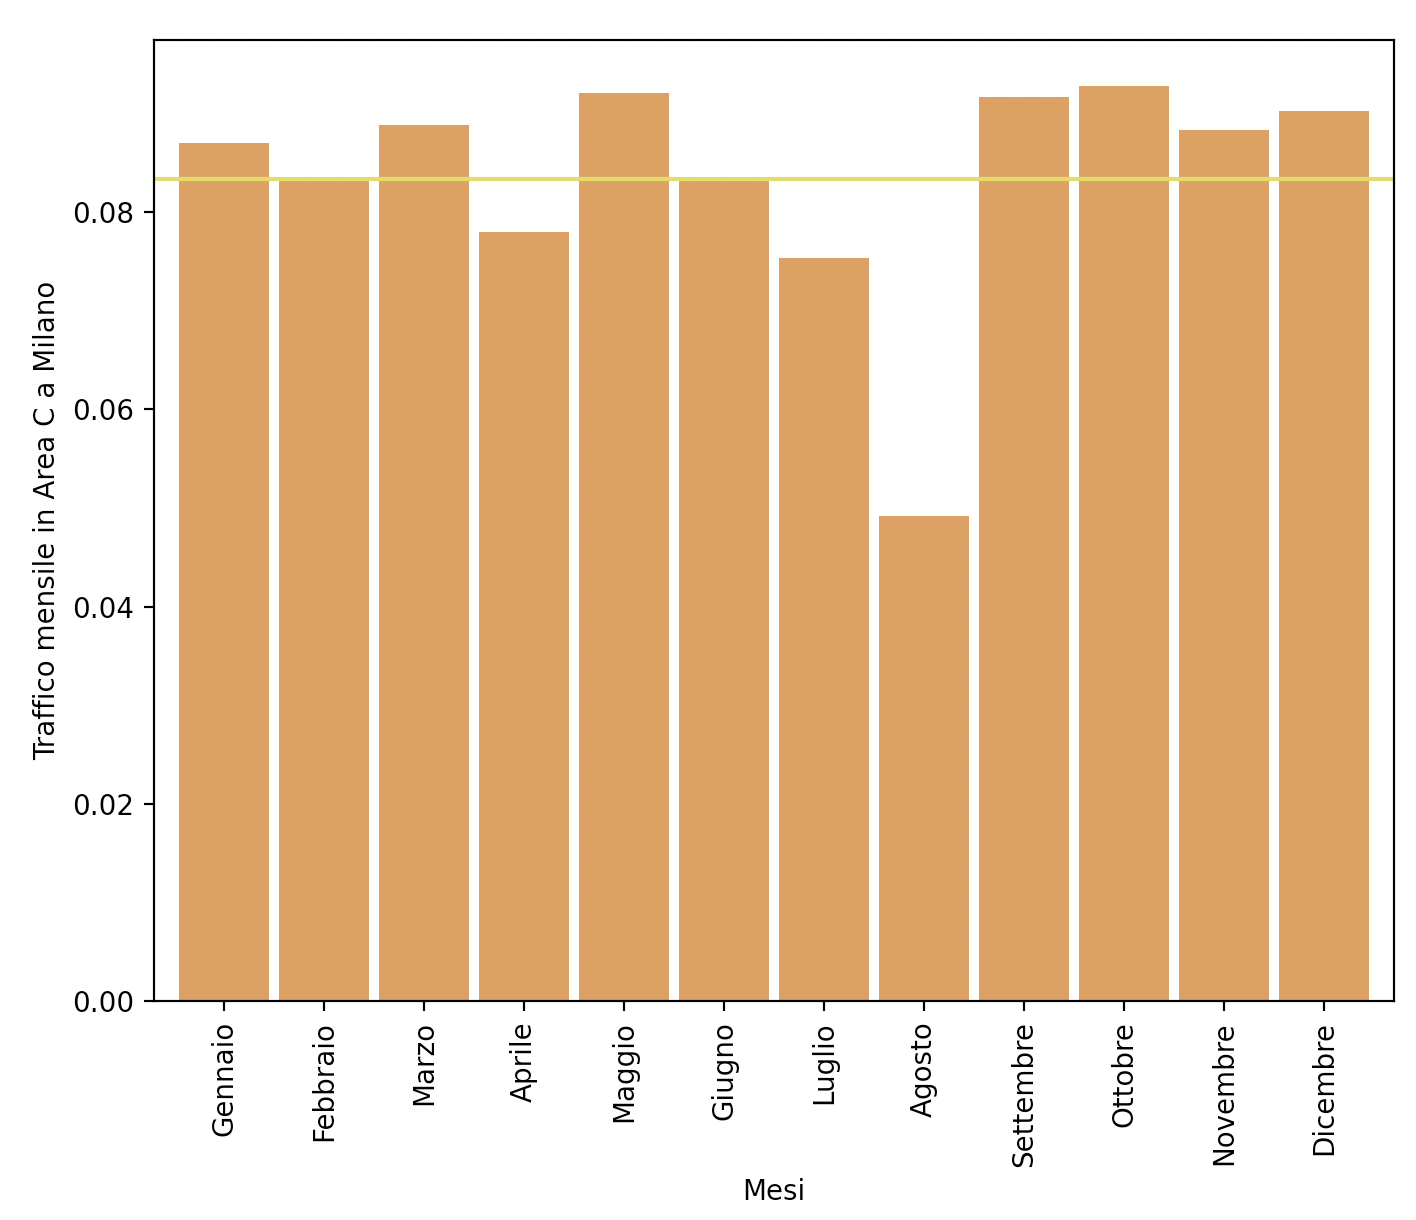
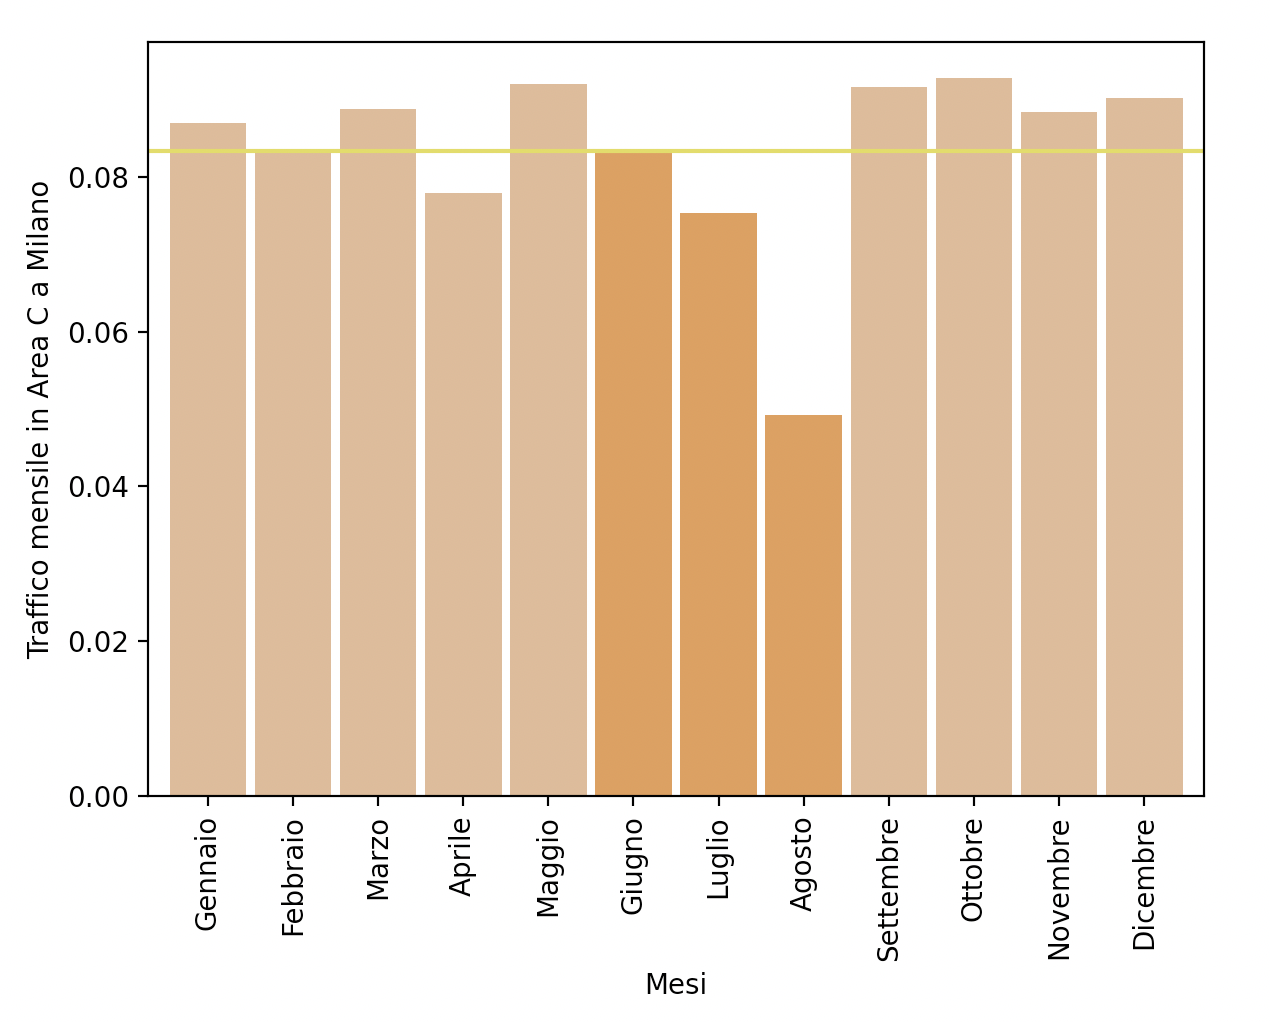
modifica grafo e small fix

diff --git a/src/incidenti/incidenti_senza_coords/mese_incidenti/trimestri.py b/src/incidenti/incidenti_senza_coords/mese_incidenti/trimestri.py
@@ -16,11 +16,12 @@ incidenti_2017 = pd.read_csv("dataset/incidenti/incidenti_2017.txt", sep="\t", e
 incidenti_2018 = pd.read_csv("dataset/incidenti/incidenti_2018.txt", sep="\t", encoding='latin1')
 
 def get_trimestre(data : pd.Series) -> pd.Series: 
-    res = {1 : 0, 2 : 0, 3 : 0, 4 : 0}
-    index = 0
-    for _, row in data.iteritems(): 
-        res[(index % 4) + 1] += row
-        index += 1
+    res = {
+        1 : data.transpose()[0:3].sum(), 
+        2 : data.transpose()[3:6].sum(), 
+        3 : data.transpose()[6:9].sum(), 
+        4 : data.transpose()[9:13].sum()
+        }
 
     return pd.Series(res.values(), res.keys())
 
@@ -51,12 +52,16 @@ import sys
 sys.path.append('src')
 import heatmap as H
 
+# plt.subplot(1,2,1)
 fig, ax = plt.subplots()
 
 im, cbar = H.heatmap(provs, provs.index, [1,2,3,4], ax=ax, cmap="YlGn", cbarlabel="Incidenti al trimestre")
 
 plt.xlabel("Trimestre")
 fig.tight_layout()
+
+# plt.subplot(1,2,2)
+#plt.plot(provs['2018'])
 plt.show()
 
 # provs.plot(linewidth=1)

diff --git a/src/area_c/mesi_2012.py b/src/area_c/mesi_2012.py
@@ -44,7 +44,10 @@ perc_traffico = df / df.sum()
 
 # print(perc_traffico)
 
-perc_traffico.plot.bar(width=0.9, color='#dd8d46')
+color_ls = ['#dbad85']*12
+color_ls[5:7] = ['#dd8d46']*3
+
+perc_traffico.plot.bar(width=0.9, color=color_ls)
 plt.plot(np.array([-1, 12]),np.array([perc_traffico.mean(), perc_traffico.mean()]), color='#ddd846')
 plt.text(11, df.mean()-0.2, "Media")
 plt.xlabel("Mesi")
